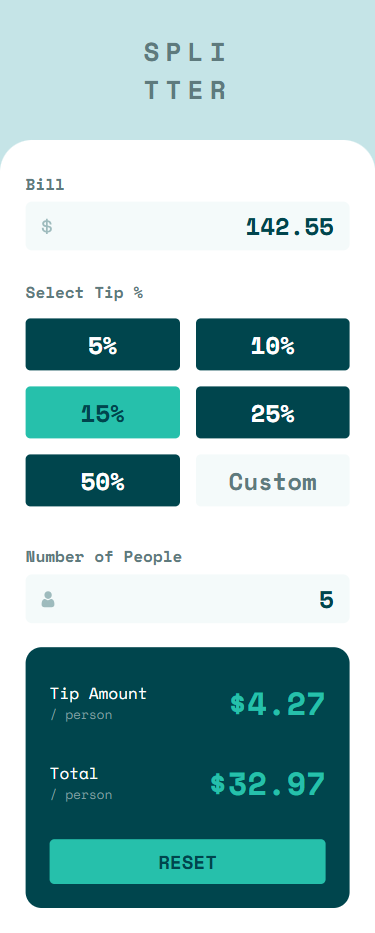
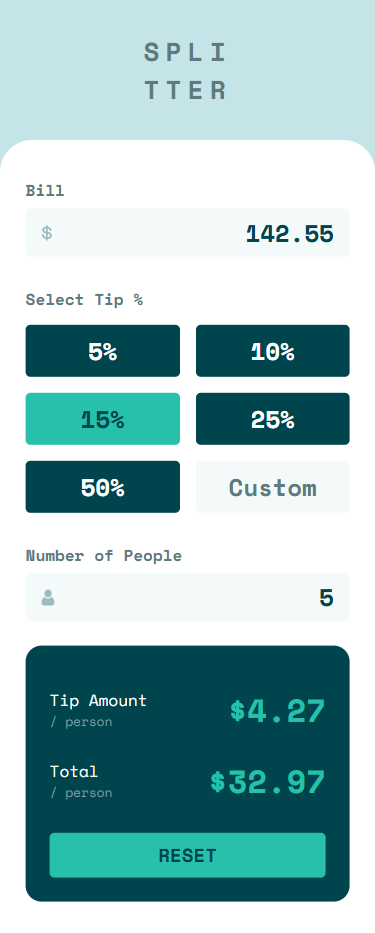
Update: Style tablet and desktop views

diff --git a/index.html b/index.html
@@ -27,48 +27,52 @@
       <h1>Spli<span>tter</span></h1>
     </header>
     <main>
-      <section>
-        <h2 class="sub-heading">Bill</h2>
-        <div class="input-container">
-          <img
-            class="icon"
-            src="./images/icon-dollar.svg"
-            alt="dollar icon"
-          /><input type="number" class="input" value="142.55" />
-        </div>
-      </section>
-      <section>
-        <h2 class="sub-heading">Select Tip %</h2>
-        <div class="tip-percent">
-          <button class="percent">5%</button>
-          <button class="percent">10%</button>
-          <button class="percent active">15%</button>
-          <button class="percent">25%</button>
-          <button class="percent">50%</button>
-          <button class="custom">Custom</button>
-        </div>
-      </section>
-      <section>
-        <h2 class="sub-heading">Number of People</h2>
-        <div class="input-container">
-          <img class="icon" src="./images/icon-person.svg" alt="person icon" />
-          <input class="input" type="number" step="1" value="5" />
-        </div>
-      </section>
+      <div class="calculator">
+        <section>
+          <h2 class="sub-heading">Bill</h2>
+          <div class="input-container">
+            <img
+              class="icon"
+              src="./images/icon-dollar.svg"
+              alt="dollar icon"
+            /><input type="number" class="input" value="142.55" />
+          </div>
+        </section>
+        <section>
+          <h2 class="sub-heading">Select Tip %</h2>
+          <div class="tip-percent">
+            <button class="percent">5%</button>
+            <button class="percent">10%</button>
+            <button class="percent active">15%</button>
+            <button class="percent">25%</button>
+            <button class="percent">50%</button>
+            <button class="custom">Custom</button>
+          </div>
+        </section>
+        <section class="number-of-people">
+          <h2 class="sub-heading">Number of People</h2>
+          <div class="input-container">
+            <img class="icon" src="./images/icon-person.svg" alt="person icon" />
+            <input class="input" type="number" step="1" value="5" />
+          </div>
+        </section>
+      </div>
       <section class="summary">
-        <div class="summary-item">
-          <p class="sub-title">
-            Tip Amount
-            <span>/ person</span>
-          </p>
-          <p class="price">$4.27</p>
-        </div>
-        <div class="summary-item">
-          <p class="sub-title">
-            Total
-            <span>/ person</span>
-          </p>
-          <p class="price">$32.97</p>
+        <div class="summary-container">
+          <div class="summary-item">
+            <p class="sub-title">
+              Tip Amount
+              <span>/ person</span>
+            </p>
+            <p class="price">$4.27</p>
+          </div>
+          <div class="summary-item">
+            <p class="sub-title">
+              Total
+              <span>/ person</span>
+            </p>
+            <p class="price">$32.97</p>
+          </div>
         </div>
 
         <button class="reset-btn">Reset</button>

diff --git a/assets/scss/main.scss b/assets/scss/main.scss
@@ -45,7 +45,7 @@ main {
   background-color: $White;
   width: 100%;
   border-radius: 2rem 2rem 0 0;
-  padding: 1.6rem;
+  padding: 2rem 1.6rem;
   display: flex;
   flex-direction: column;
   button {
@@ -62,7 +62,7 @@ main {
   section {
     width: 100%;
     margin-bottom: 1.5rem;
-    .input-container{
+    .input-container {
       position: relative;
 
       .icon {
@@ -88,7 +88,7 @@ main {
       display: grid;
       grid-template-columns: 1fr 1fr;
       gap: 1rem;
-      margin: .5rem 0;
+      margin: 0.5rem 0;
 
       button {
         font-weight: $weight;
@@ -121,8 +121,14 @@ main {
     flex-direction: column;
     justify-content: space-between;
     margin-bottom: 0;
-    padding-top: 2rem;
+    // padding-top: 2rem;
 
+    .summary-container {
+      margin-top: 1rem;
+      display: flex;
+      flex-direction: column;
+      gap: 1.5rem;
+    }
     .summary-item {
       display: flex;
       justify-content: space-between;
@@ -151,5 +157,73 @@ main {
       text-transform: uppercase;
       font-weight: $weight;
     }
+  }
+}
+
+@include mq.respond(tablet) {
+  html {
+    font-size: 16px;
+  }
+
+  main {
+    width: 75%;
+  }
+}
+
+@include mq.respond(desktop) {
+  html {
+    font-size: 18px;
+  }
+  body {
+    gap: 4rem;
+  }
+  header {
+    height: auto;
+  }
+  main {
+    min-height: auto;
+    padding: 2rem;
+    border-radius: 1.5rem;
+    flex-direction: row;
+    gap: 1.5rem;
+    max-width: 55rem;
+    section {
+      width: auto;
+      
+    }
+    .number-of-people{
+      margin-top: 2rem;
+    }
+    .calculator {
+      width: auto;
+      flex-grow: 1;
+      // padding: 0 1.5rem;
+      width: 50%;
+      .tip-percent {
+        display: grid;
+        grid-template-columns: repeat(3, 1fr);
+        gap: 1rem;
+        margin: 0.5rem 0;
+        button {
+          padding: 0.3rem 0;
+        }
+      }
+    }
+    .summary {
+      padding: 2.5rem;
+      width: 50%;
+      .summary-container {
+        gap: 1.5rem;
+        .price {
+          font-size: 2.7rem;
+        }
+      }
+    }
+  }
+}
+
+@include mq.respond(large-desktop) {
+  html{
+    font-size: 20px;
   }
 }

diff --git a/style.css b/style.css
@@ -63,7 +63,7 @@ main {
   background-color: hsl(0, 0%, 100%);
   width: 100%;
   border-radius: 2rem 2rem 0 0;
-  padding: 1.6rem;
+  padding: 2rem 1.6rem;
   display: flex;
   flex-direction: column;
 }
@@ -134,7 +134,12 @@ main .summary {
   flex-direction: column;
   justify-content: space-between;
   margin-bottom: 0;
-  padding-top: 2rem;
+}
+main .summary .summary-container {
+  margin-top: 1rem;
+  display: flex;
+  flex-direction: column;
+  gap: 1.5rem;
 }
 main .summary .summary-item {
   display: flex;
@@ -162,6 +167,69 @@ main .summary .reset-btn {
   font-size: 1.2rem;
   text-transform: uppercase;
   font-weight: 700;
+}
+
+@media (min-width: 40rem) {
+  html {
+    font-size: 16px;
+  }
+  main {
+    width: 75%;
+  }
+}
+@media (min-width: 60rem) {
+  html {
+    font-size: 18px;
+  }
+  body {
+    gap: 4rem;
+  }
+  header {
+    height: auto;
+  }
+  main {
+    min-height: auto;
+    padding: 2rem;
+    border-radius: 1.5rem;
+    flex-direction: row;
+    gap: 1.5rem;
+    max-width: 55rem;
+  }
+  main section {
+    width: auto;
+  }
+  main .number-of-people {
+    margin-top: 2rem;
+  }
+  main .calculator {
+    width: auto;
+    flex-grow: 1;
+    width: 50%;
+  }
+  main .calculator .tip-percent {
+    display: grid;
+    grid-template-columns: repeat(3, 1fr);
+    gap: 1rem;
+    margin: 0.5rem 0;
+  }
+  main .calculator .tip-percent button {
+    padding: 0.3rem 0;
+  }
+  main .summary {
+    padding: 2.5rem;
+    width: 50%;
+  }
+  main .summary .summary-container {
+    gap: 1.5rem;
+  }
+  main .summary .summary-container .price {
+    font-size: 2.7rem;
+  }
+}
+@media (min-width: 100rem) {
+  html {
+    font-size: 20px;
+  }
 }
 
 /*# sourceMappingURL=style.css.map */

diff --git a/assets/scss/mixin/_media_queries.scss b/assets/scss/mixin/_media_queries.scss
@@ -1,6 +1,6 @@
-$breakpoint-mobile: 30rem;
-$breakpoint-tablet: 42rem;
-$breakpoint-desktop: 64rem;
+$breakpoint-mobile: 40rem;
+$breakpoint-tablet: 60rem;
+$breakpoint-desktop: 100rem;
 
 @mixin respond($breakpoint) {
   @if $breakpoint == tablet {
@@ -9,6 +9,10 @@ $breakpoint-desktop: 64rem;
     }
   } @else if $breakpoint == desktop {
     @media (min-width: $breakpoint-tablet) {
+      @content;
+    }
+  } @else if $breakpoint == large-desktop {
+    @media (min-width: $breakpoint-desktop) {
       @content;
     }
   }
